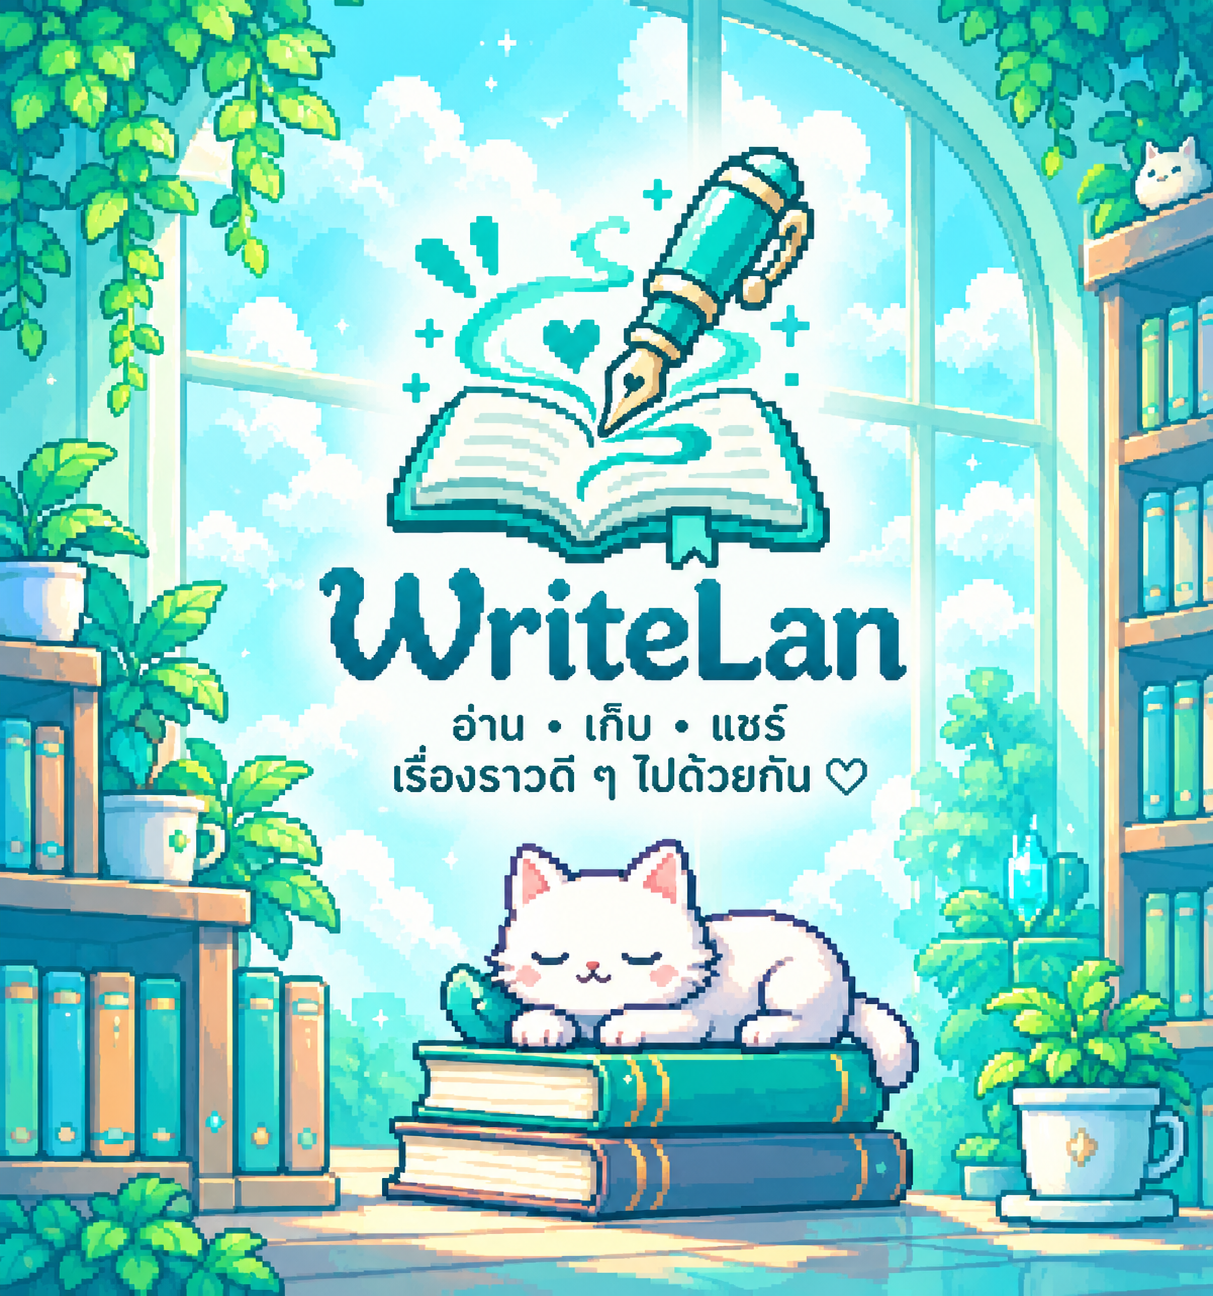
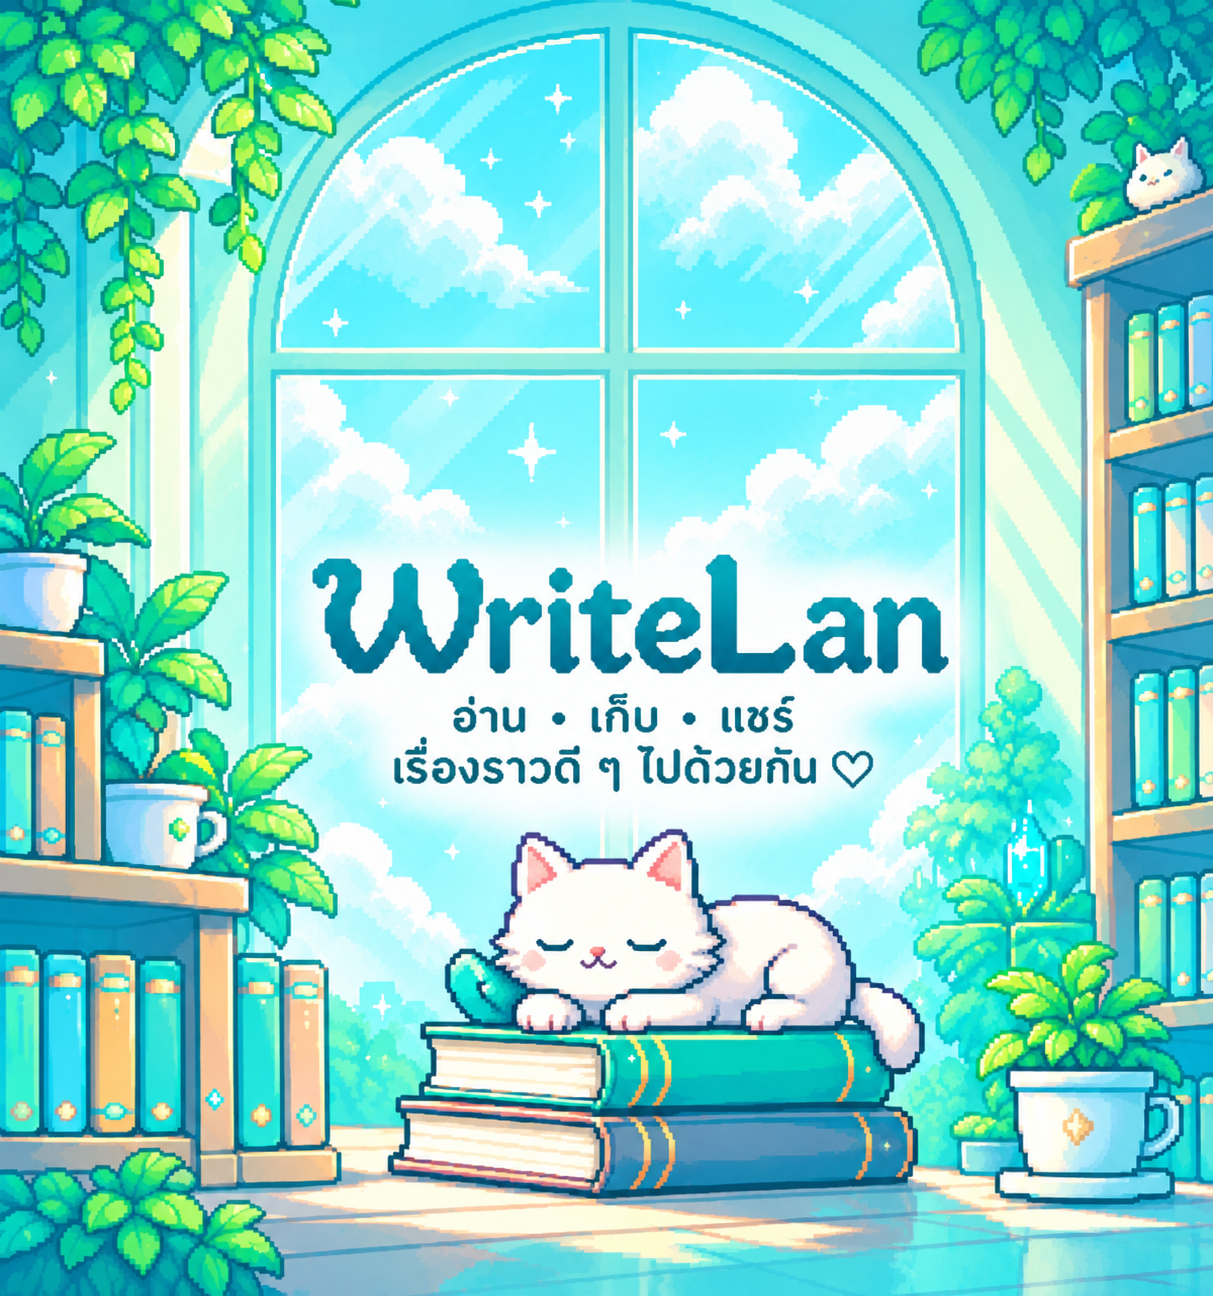
Add files via upload

diff --git a/style.css b/style.css
@@ -64,36 +64,34 @@ body {
 /* 1. แบนเนอร์ภาพแมวด้านบน */
 .hero-banner {
     width: 100%;
-    background-color: #eaf8f7;
-    display: flex;
-    justify-content: center;
-    align-items: center;
-    padding: 12px 16px 4px 16px; /* เติมพื้นที่รอบรูป */
+    position: relative;
+    overflow: hidden;
 }
 
 .banner-img {
     width: 100%;
     height: auto;
-    max-height: 320px;
-    object-fit: contain; /* เปลี่ยนเป็น contain เพื่อให้เห็นรูปครบทุกส่วน ไม่โดนตัดขอบ */
+    max-height: 330px;
+    object-fit: cover;
     display: block;
-    border-radius: 16px;
+    border-bottom-left-radius: 24px;
+    border-bottom-right-radius: 24px;
 }
 
-/* 2. ย้ายบล็อกเมนู 4 ปุ่มลงมาอยู่ด้านล่างรูปภาพปกติ (ไม่บังแมวแล้ว!) */
+/* 2. ปุ่มทางลัด 4 ปุ่ม (วางซ้อนทับขอบล่างของรูปเล็กน้อย) */
 .quick-menu {
     display: grid;
     grid-template-columns: repeat(4, 1fr);
     gap: 10px;
-    padding: 12px 16px 4px 16px;
-    margin-top: 0; /* เอาค่าติดลบออก เพื่อให้มาอยู่ต่อจากรูปภาพพอดี */
+    padding: 0 16px;
+    margin-top: -32px;
     position: relative;
     z-index: 10;
 }
 
 .menu-card {
     background-color: #ffffff;
-    border: 1px solid #e1f5f3;
+    border: 1px solid #e6f4f3;
     border-radius: 16px;
     padding: 12px 4px;
     display: flex;
@@ -101,7 +99,7 @@ body {
     align-items: center;
     justify-content: center;
     gap: 6px;
-    box-shadow: 0 2px 8px rgba(23, 156, 149, 0.06);
+    box-shadow: 0 4px 12px rgba(23, 156, 149, 0.08);
     cursor: pointer;
     position: relative;
     transition: transform 0.15s ease;

diff --git a/index.html b/index.html
@@ -3,7 +3,7 @@
 <head>
     <meta charset="UTF-8">
     <meta name="viewport" content="width=device-width, initial-scale=1.0">
-    <title>WriteLan - อ่าน เก็บ แชร์ เรื่องราวดี ๆ ไปด้วยกัน</title>
+    <title>WriteLan - อ่าน เก็บ แชร์ เรื่องราวดีๆ ไปด้วยกัน</title>
     <link rel="preconnect" href="https://fonts.googleapis.com">
     <link rel="preconnect" href="https://fonts.gstatic.com" crossorigin>
     <link href="https://fonts.googleapis.com/css2?family=Prompt:wght@300;400;500;600;700&display=swap" rel="stylesheet">
